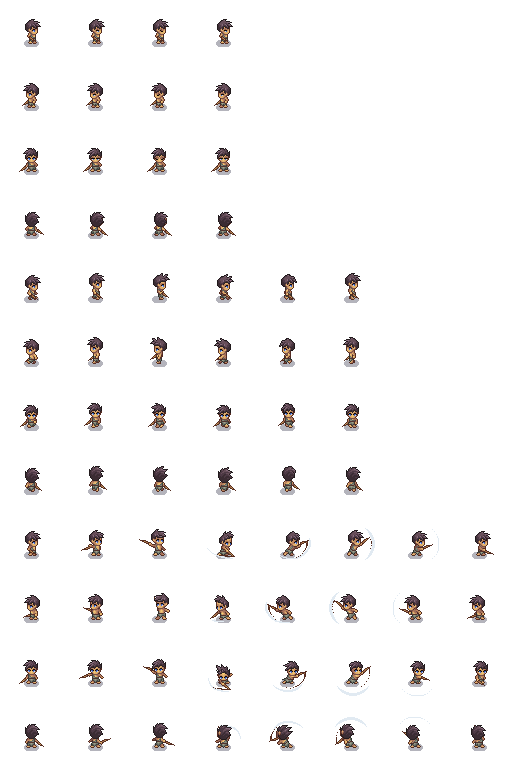
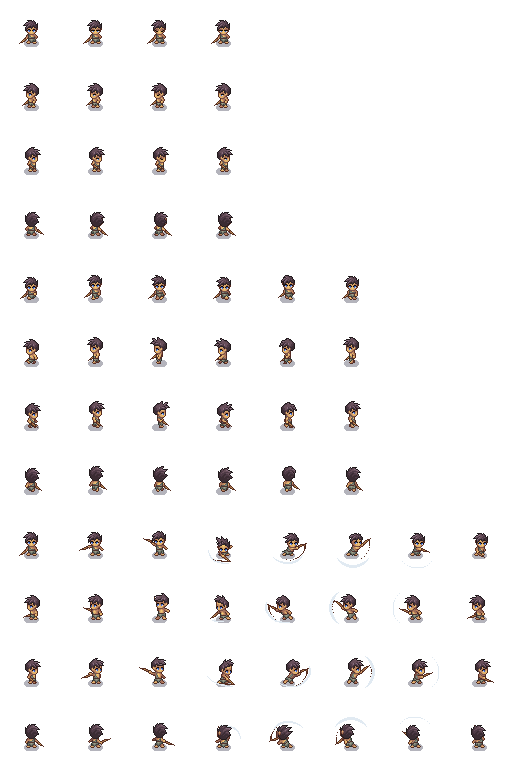
Stage 0: fold in in-progress HUD + tileset-object work
Carries the uncommitted working-tree changes onto the polish branch, verified:

- pack-hero.mjs SRC_ROW_ORDER -> identity [0,1,2,3]. Confirmed against the
  CraftPix Swordsman attack sheet: source rows really are [down,left,right,up],
  matching P.dir. The old [2,1,0,3] swapped the down/right facings.
- pack-tileset-objects.mjs (new): patches chest/stash/campfire/pit/stump cells
  in tilesheet.png from the "All Tileset" camp pack. hero{1,2,3}.png +
  tilesheet.png are its + pack-hero's repacked output.
- HUD restructure: purse coin/gem icons; HP/MP bars get a pixel bezel (.barf);
  XP bar + new #lvbadge move to a bottom strip (#xpbottom); skills/potion
  nudged up to clear it. New i18n key lvBadge.
- main.ts: DEV-only __ember debug bridge for the visual smoke harness
  (import.meta.env.DEV -> dead-code-eliminated from the prod bundle, verified
  the built index.js size is unchanged).
- .gitignore: /production/ (CCGS session-hook scratch, unused here) + _tmp_*.

Claude-Session: https://claude.ai/code/session_014X4B4SoDMRBfk7ruwMj8NW

diff --git a/src/style.css b/src/style.css
@@ -46,12 +46,23 @@ background:linear-gradient(180deg,rgba(14,15,21,.95),rgba(14,15,21,0))}
 .row{display:flex;align-items:center;gap:8px}.spread{justify-content:space-between}
 #zonename{font-size:11px}#zonemeta{font-size:10px;color:var(--dim)}
 .purse{font-size:10px;color:var(--dim);text-align:end}.purse b{font-weight:400;color:var(--gold)}.purse i{font-style:normal;color:var(--arc)}
-#hpwrap{margin-top:6px;height:8px;background:#000;border:1px solid var(--line)}#hpbar{height:100%;background:var(--blood)}
-#mpwrap{margin-top:2px;height:5px;background:#000;border:1px solid var(--line)}#mpbar{height:100%;background:var(--arc)}
-#xpwrap{margin-top:2px;height:3px;background:#000}#xpbar{height:100%;width:0;background:var(--moss)}
+/* stat bars — a small slice of ui-panel.png's frame as a pixel-art bezel
+ * (gold top edge, slate sides/bottom) around a plain fill div; HP+mana stay
+ * grouped in the top HUD, the XP/level bar moves to the screen's bottom
+ * edge (#xpbottom) so it doesn't compete with them for attention. */
+.barf{background:#000;border:4px solid transparent;border-image:url(./assets/ui-panel.png) 4 fill stretch;
+ image-rendering:pixelated;padding:1px}
+#hpwrap{margin-top:7px;height:11px}#hpbar{height:100%;background:var(--blood)}
+#mpwrap{margin-top:3px;height:8px}#mpbar{height:100%;background:var(--arc)}
 .sk.nomana{filter:grayscale(.7) brightness(.7)}
 .sk .mp{position:absolute;inset-inline-end:3px;top:2px;font-size:8px;color:#9fd0ff;z-index:3}
 #objective{margin-top:5px;font-size:10px;color:var(--gold)}
+
+#xpbottom{position:absolute;left:10px;right:10px;bottom:6px;z-index:6;display:flex;
+ align-items:center;gap:6px;pointer-events:none}
+#lvbadge{font-family:"Tajawal",monospace;font-weight:700;font-size:11px;color:var(--gold);
+ text-shadow:0 1px 0 rgba(0,0,0,.6);flex:none}
+#xpwrap{flex:1;height:10px}#xpbar{height:100%;width:0;background:var(--moss)}
 
 /* stick RIGHT, abilities LEFT */
 #stick{position:absolute;right:0;bottom:0;width:52%;height:46%;z-index:4}
@@ -60,7 +71,7 @@ background:linear-gradient(180deg,rgba(14,15,21,.95),rgba(14,15,21,0))}
 #sknob{width:44px;height:44px;background:rgba(232,228,214,.55)}
 #stick.on #sbase,#stick.on #sknob{opacity:1}
 
-#skills{position:absolute;left:9px;bottom:12px;z-index:7;display:flex;flex-direction:column-reverse;gap:8px;align-items:flex-start}
+#skills{position:absolute;left:9px;bottom:32px;z-index:7;display:flex;flex-direction:column-reverse;gap:8px;align-items:flex-start}
 .sk{width:60px;height:60px;position:relative;overflow:hidden;font-family:"Tajawal",monospace;font-weight:500;font-size:9px;
  border:9px solid transparent;border-image:url(./assets/ui-button.png) 4 fill stretch;
  background:none;color:#2a2418;line-height:1.15;padding:0;image-rendering:pixelated}
@@ -70,7 +81,7 @@ background:linear-gradient(180deg,rgba(14,15,21,.95),rgba(14,15,21,0))}
 .sk.e-cold{box-shadow:inset 0 0 0 2px rgba(111,195,217,.9)}
 .sk.e-light{box-shadow:inset 0 0 0 2px rgba(201,168,240,.9)}
 .sk.e-none{box-shadow:inset 0 0 0 2px rgba(95,154,106,.9)}
-#potion{position:absolute;left:78px;bottom:14px;z-index:7;width:48px;height:48px;
+#potion{position:absolute;left:78px;bottom:34px;z-index:7;width:48px;height:48px;
  border:8px solid transparent;border-image:url(./assets/ui-button.png) 4 fill stretch;
  background:none;color:#2a2418;font-size:12px;font-family:"Silkscreen",monospace;image-rendering:pixelated}
 #interact{position:absolute;left:50%;transform:translateX(-50%);bottom:100px;z-index:7;display:none;

diff --git a/index.html b/index.html
@@ -22,13 +22,13 @@
   <div id="hud">
     <div class="row spread">
       <div><div id="zonename" class="pixel">—</div><div id="zonemeta"></div></div>
-      <div class="purse"><span data-i18n="purseGold">ذهب</span> <b id="pgold">0</b> · <span data-i18n="purseShard">شظية</span> <i id="pshard">0</i></div>
+      <div class="purse"><span class="ic ic-coin"></span> <b id="pgold">0</b> · <span class="ic ic-gem"></span> <i id="pshard">0</i></div>
     </div>
-    <div id="hpwrap"><div id="hpbar"></div></div>
-    <div id="mpwrap"><div id="mpbar"></div></div>
-    <div id="xpwrap"><div id="xpbar"></div></div>
+    <div id="hpwrap" class="barf"><div id="hpbar"></div></div>
+    <div id="mpwrap" class="barf"><div id="mpbar"></div></div>
     <div id="objective"></div>
   </div>
+  <div id="xpbottom"><span id="lvbadge"></span><div id="xpwrap" class="barf"><div id="xpbar"></div></div></div>
   <div id="loot"></div>
   <div id="stick"><div id="sbase"></div><div id="sknob"></div></div>
   <div id="skills"></div>

diff --git a/src/main.ts b/src/main.ts
@@ -79,3 +79,18 @@ async function boot(): Promise<void> {
 }
 
 void boot();
+
+/* Dev-only debug bridge for the visual smoke harness (scratchpad/smoke.mjs).
+ * `import.meta.env.DEV` is statically false in `vite build`, so this whole
+ * block is dead-code-eliminated from the production bundle. */
+if (import.meta.env.DEV) {
+  void (async () => {
+    const core = await import("./game/core.ts");
+    const state = await import("./game/state.ts");
+    const combat = await import("./game/combat.ts");
+    (window as unknown as { __ember: unknown }).__ember = {
+      S: core.S, P: core.P, W: core.W, joy: core.joy,
+      enterZone: state.enterZone, toHub: state.toHub, die: combat.die,
+    };
+  })();
+}

diff --git a/src/i18n/ar.ts b/src/i18n/ar.ts
@@ -58,6 +58,7 @@ export const ar: Dict = {
   boardSignIn: "سجّل الدخول لرؤية لوحة المتصدرين العالمية.",
   boardEmpty: "لا جولات بعد — كن الأول.",
   boardRow: "{i}. {name} · {cls} · م{level}",
+  lvBadge: "م{lv}",
 
   pickIntro: "هبوطٌ في أعماق قاتلة. الموت ينهي الجولة — لا ينجو سوى المخزن.",
   name: "الاسم",

diff --git a/src/game/hud.ts b/src/game/hud.ts
@@ -66,6 +66,7 @@ export function paintHud(force?: boolean): void {
 function paintHudSlow(st: Stats): void {
   const Z = W.Z;
   $("xpbar").style.width = (S.xp / xpNeed(S.lv)) * 100 + "%";
+  $("lvbadge").textContent = t("lvBadge", { lv: S.lv });
   $("pgold").textContent = String(Math.max(0, Math.round(S.gold)));
   $("pshard").textContent = String(S.shard);
   $("zonename").textContent = Z.d.name;

diff --git a/src/i18n/en.ts b/src/i18n/en.ts
@@ -65,6 +65,7 @@ export const en = {
   boardSignIn: "Sign in to see the global leaderboard.",
   boardEmpty: "No runs yet — be the first.",
   boardRow: "{i}. {name} · {cls} · lv{level}",
+  lvBadge: "Lv{lv}",
 
   /* ---- class pick ---- */
   pickIntro: "A roguelike descent. Death ends the run — only the stash survives.",
